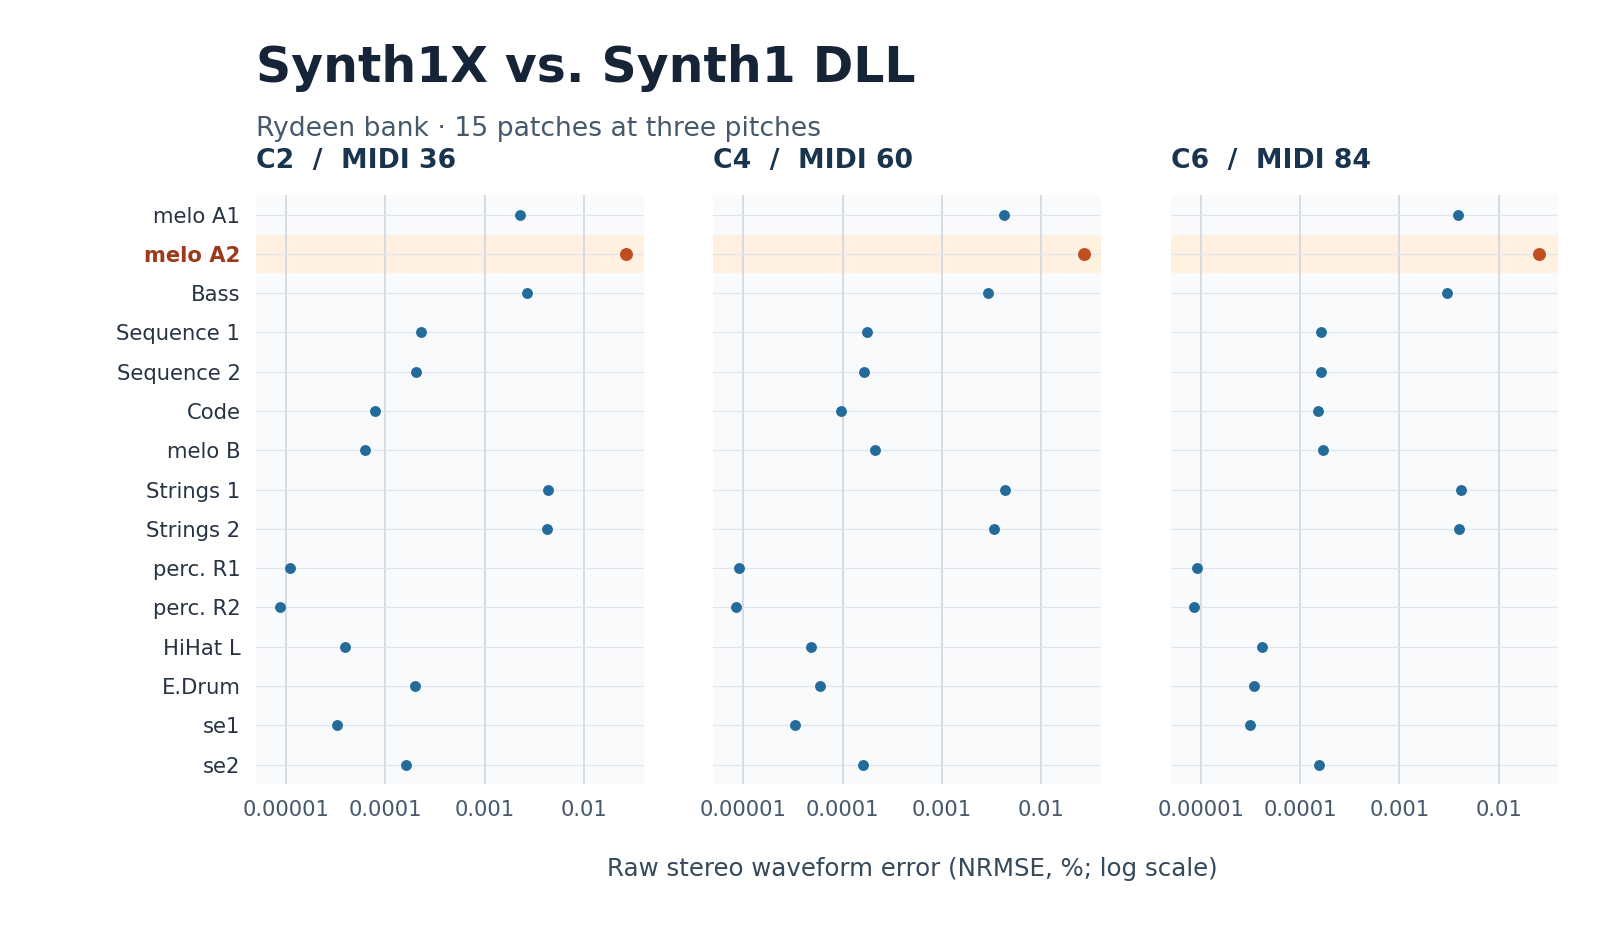
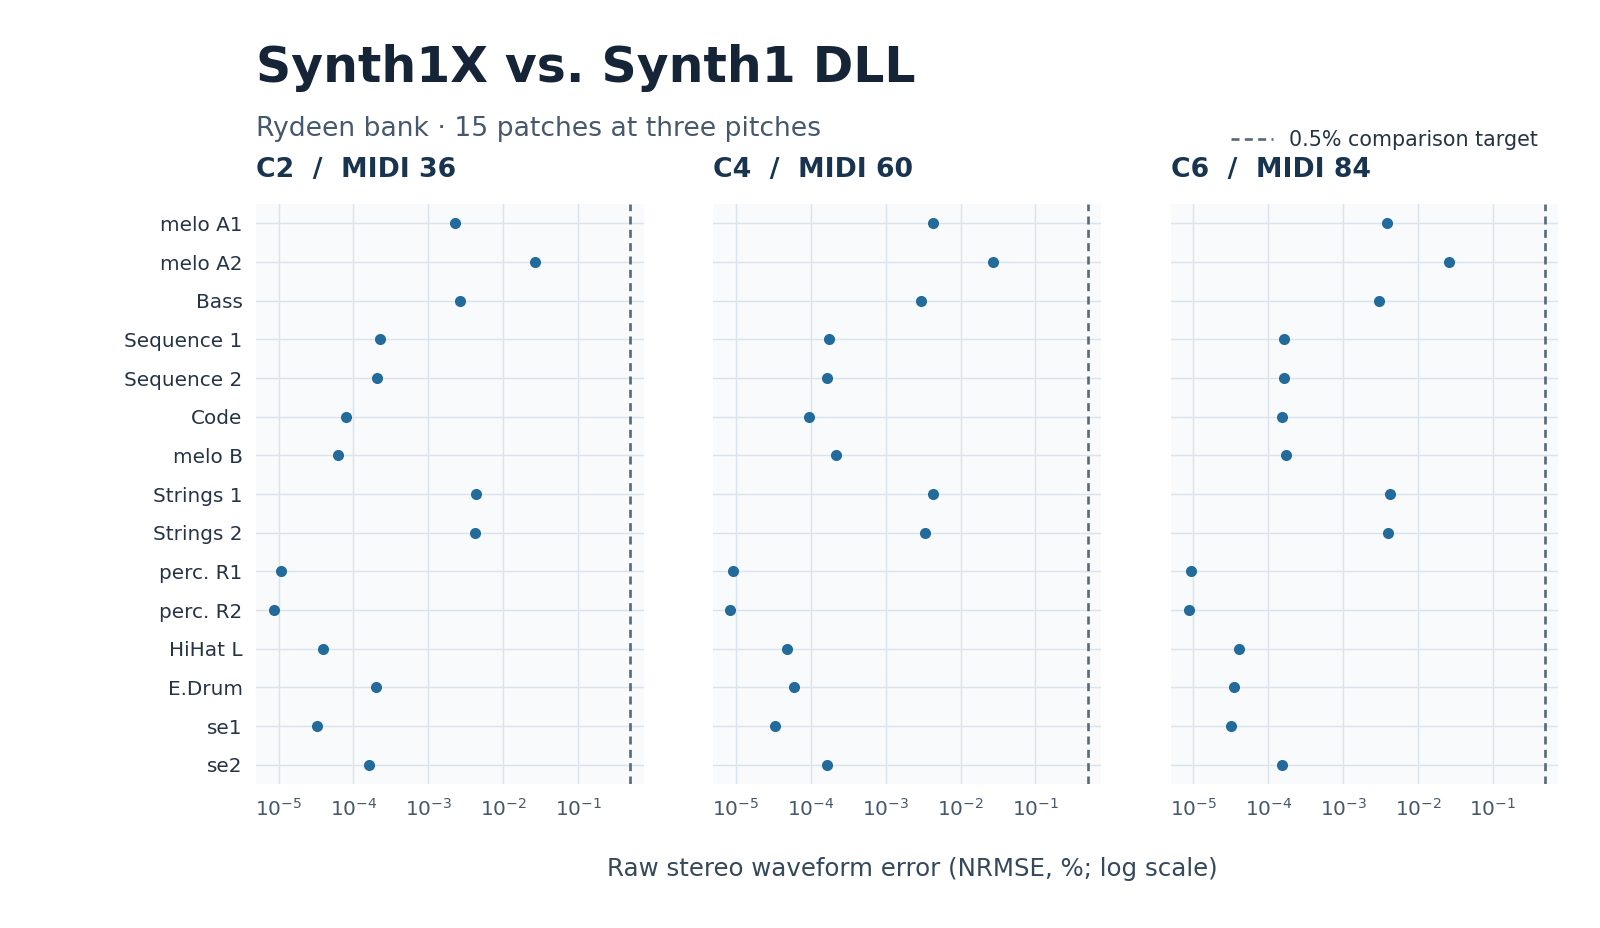
Show waveform residuals at their actual scale

diff --git a/README.md b/README.md
@@ -54,19 +54,20 @@ signal had about **1/3,700** of the Synth1 reference's RMS amplitude, or
 **71 dB below** the reference RMS. The 99 compared patch controls matched in
 every run.
 
-![Stereo waveform error for 15 Rydeen patches, shown separately at C2, C4 and C6. The highest error is 0.027% for melo A2 at C4.](docs/images/rydeen-comparison.png)
+![Stereo waveform error for 15 Rydeen patches at C2, C4 and C6, plotted against the 0.5% comparison target.](docs/images/rydeen-comparison.png)
 
-Each dot is one patch at one pitch. The same logarithmic scale is used in all
-three panels, with smaller errors toward the left.
+Each dot is one patch at one pitch. The panels share a logarithmic scale, with
+smaller errors toward the left. The dashed line marks the project's
+[0.5% comparison target](docs/contracts/validation.md#precision-audio-acceptance).
 
 ### Waveform excerpts
 
 ![Separate Synth1 DLL, Synth1X and difference waveforms for Rydeen melo A2 at C4 and Rydeen Strings 1 at C2.](docs/images/rydeen-waveforms.png)
 
 For each of the two highest-error patches, the figure shows the 20 ms window
-with the largest RMS difference in the left channel. The two source traces in
-each column share a vertical scale. The bottom row shows Synth1X minus Synth1 on
-a finer scale. The NRMSE labels use the full stereo renders.
+with the largest RMS difference in the left channel. All three traces in each
+column share the same amplitude scale. The bottom row shows the difference
+between Synth1X and Synth1. The NRMSE labels use the full stereo renders.
 [Results and test conditions](docs/validation/reference-comparisons.md#rydeen-bank-comparison)
 
 ## Development
